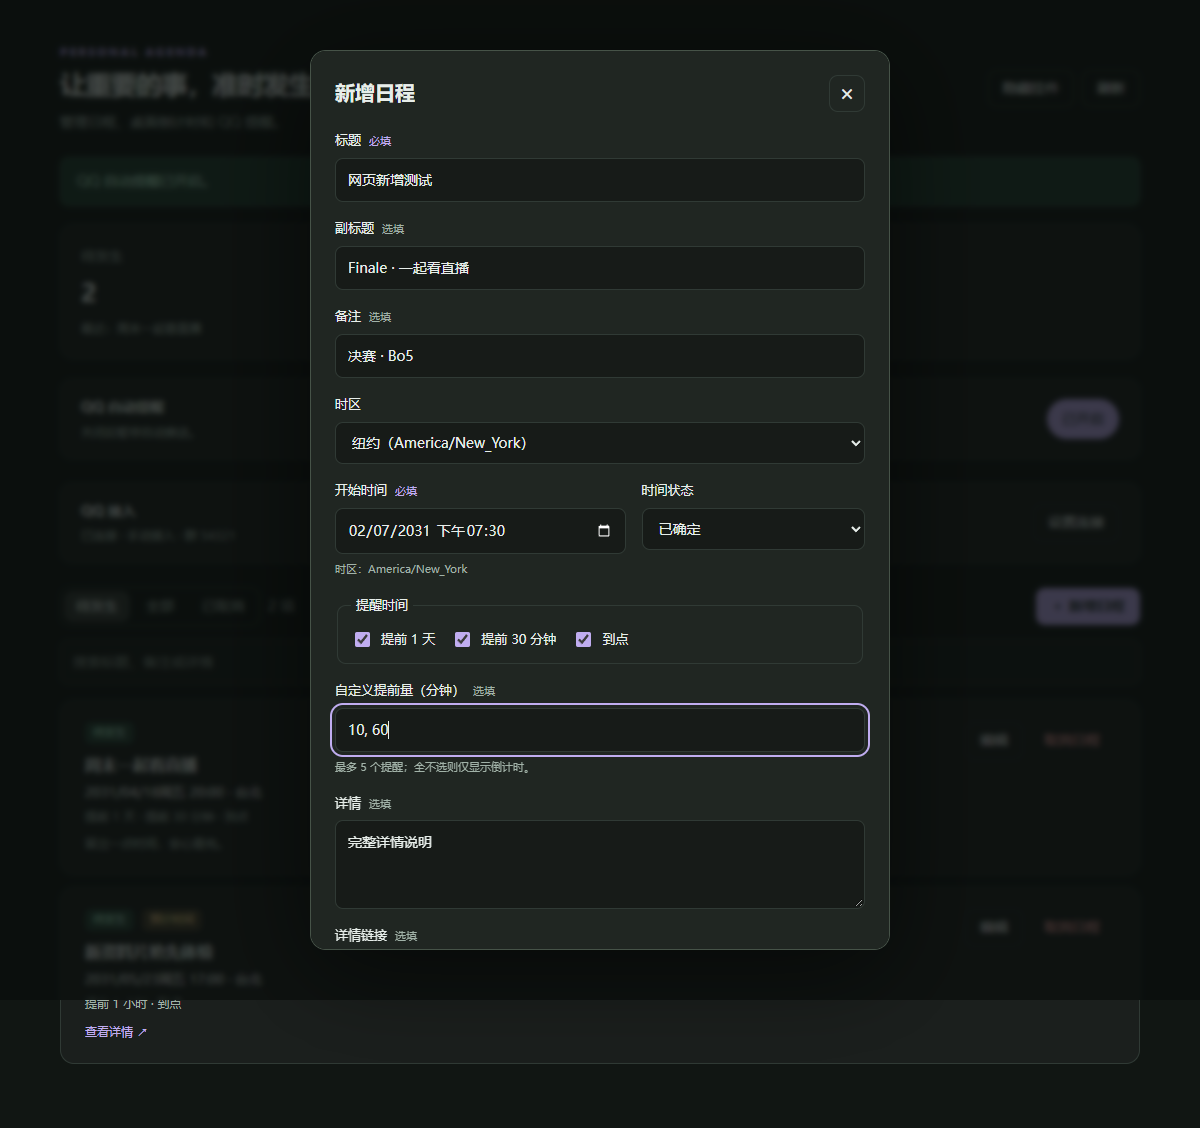
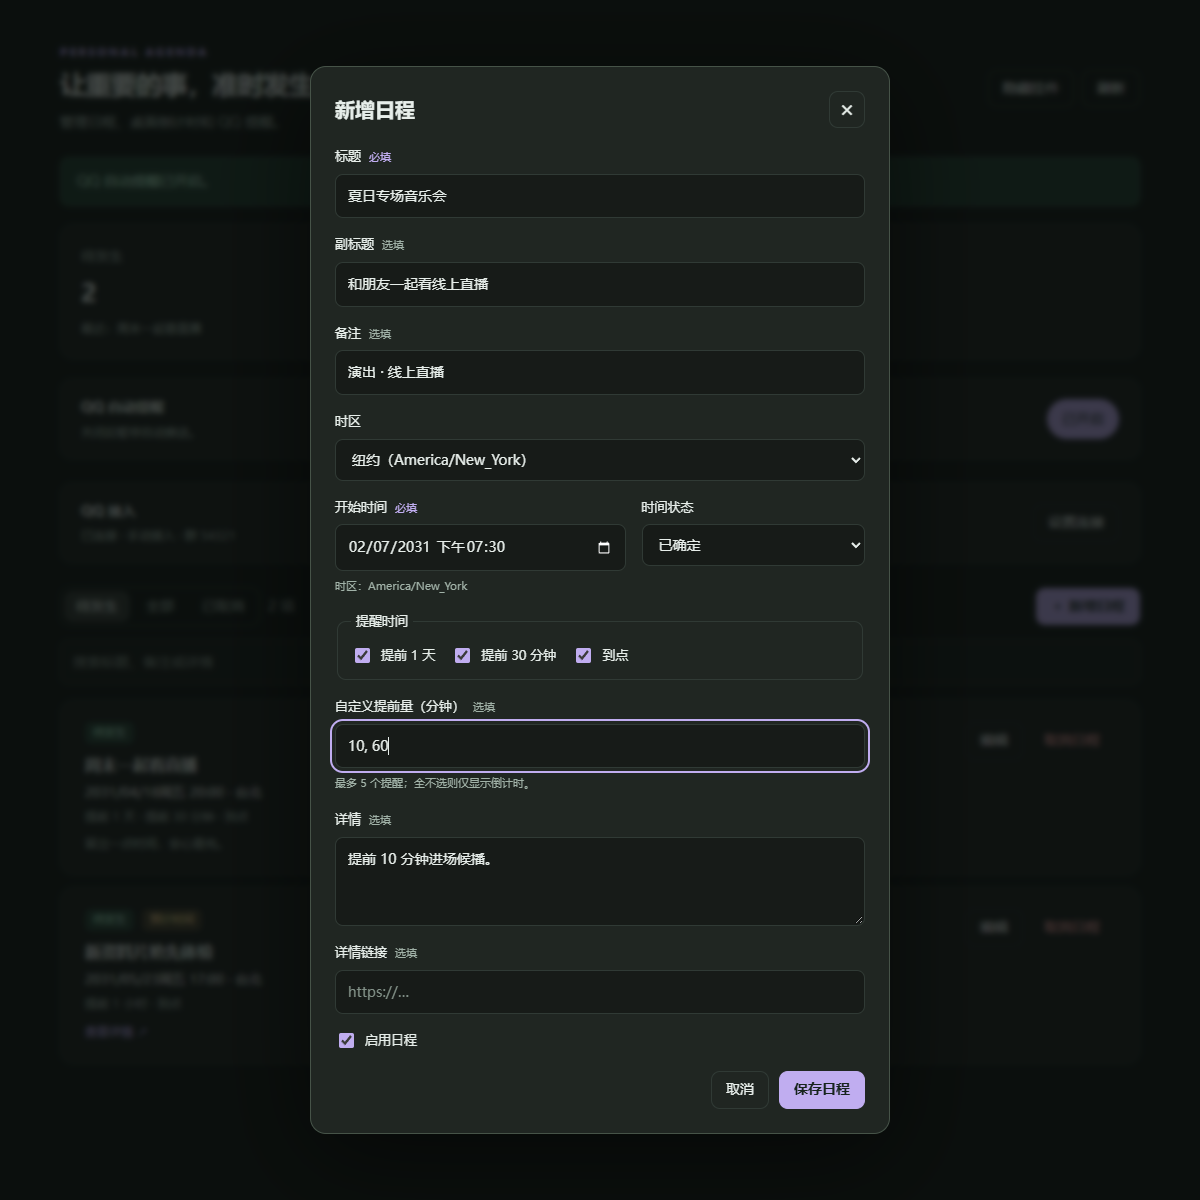
docs: polish README and screenshots

diff --git a/README.md b/README.md
@@ -1,141 +1,148 @@
-# Coopanion 个人日程
+# Coopanion 个人日程（`cortico-world-personal-agenda`）
 
-独立的本地 World 插件：**个人日程**，包含 QQ 提醒与桌面倒计时。不修改 Coopanion 主程序，不向本体托盘插入菜单，也不创建额外托盘图标。所有开关放在插件页面。
+Coopanion 的个人日程与桌面倒计时扩展（World 契约 6），支持**WebUI 日程管理**、**独立桌面倒计时挂件**以及**复用官方 QQ 插件的定时提醒与群/私聊命令**。不修改 Coopanion 主程序，所有设置与开关均在插件页面内完成。
 
-目前按 Windows + Coopanion 0.2.20 / World 契约 6 验证。桌面窗口需要本机 Coopanion 的 Electron 运行环境；安装脚本在数据目录中准备独立副本，仓库不包含运行二进制。
+- **npm 包名**：[`cortico-world-personal-agenda`](https://www.npmjs.com/package/cortico-world-personal-agenda)
+- **适用环境**：Windows + Coopanion 0.2.20+（World API 6）
+- **开源协议**：MIT
 
-![日程页面](docs/images/agenda-desktop.png)
+---
 
-## 个人日程
+## 界面预览
 
-- 页面新增、编辑、取消、重新启用日程；查看待发生、全部和已取消事项，按标题或备注搜索。
-- 每条日程在新增、编辑窗口中独立选择时区，默认跟随电脑；可标记已确定或预计时间，分别编辑标题、副标题、备注、详情和 HTTPS 链接，文字不限语言。
-- 设置到点、提前一天、提前 30 分钟，或自定义整数分钟；每项最多 5 次，也可不发提醒。
-- 手动指定的私聊 QQ 支持日程命令；已配置 Coopanion 语言模型时还可直接用自然语言管理。可另填一个群号接收同一份日程的提醒。
-- 群内添加日程提供总开关，以及「允许主人」「允许群管理员」「允许群主」三个独立权限，默认全部关闭；私聊 QQ、群号、主人 QQ 默认全部留空，均需自行填写。
-- 页面提供独立的「QQ 自动提醒」开关，设置会保存；关闭自动推送仍可编辑日程、查看桌面倒计时和通过 QQ 私聊管理。
-- 页面提供 QQ 首次接入、连接检测和高级选项；默认复用官方 QQ 的地址及令牌，用户填写提醒接收人即可。未配置 QQ 时，日程和倒计时仍可独立使用。
-- 倒计时与 QQ 提醒读取同一份日程。改期、取消、提醒去重和失败重试保留；更改标题不会重新发送已确认的提醒。
-- 编辑冲突会提示重新打开，不覆盖其他页面或 QQ 的新改动。取消是停用，不删除历史。
+| 桌面倒计时挂件 | 日程管理面板 |
+| :---: | :---: |
+| ![桌面倒计时挂件](docs/images/countdown-widget.png) | ![日程管理面板](docs/images/agenda-desktop.png) |
 
-![编辑日程](docs/images/agenda-editor.png)
+| 新增 / 编辑日程 | QQ 提醒接入设置 |
+| :---: | :---: |
+| ![编辑日程](docs/images/agenda-editor.png) | ![QQ 接入设置](docs/images/qq-connection.png) |
 
-日程显示字段对应关系：
+---
 
-| 页面字段 | 数据字段 | 填写要求 | 用途 |
-| --- | --- | --- | --- |
-| 标题 | `title` | 必填 | 倒计时的大字标题 |
-| 副标题 | `subtitle` | 选填 | 标题下方的小字，留空隐藏 |
-| 备注 | `remark` | 选填 | 挂件顶部的短标签，例如「演出 · 线上直播」 |
-| 详情 | `details` | 选填 | 完整说明、长文本，QQ 提醒会附上 |
-| 开始时间 | `start` | 必填 | 日程开始时间，按页面选择的时区输入 |
-| 时区 | `timezone` | 默认跟随电脑 | 仅影响这条日程，可选择其他地区 |
-| 详情链接 | `url` | 选填 | 填写时须使用 HTTPS 地址 |
+## 核心功能
 
-标题、副标题、备注和详情均不限制语言。旧的「标题｜标签」仍可读取，旧 `notes` 作为详情读取；通过页面保存后写入独立字段。不再按日程编号强制套用显示内容。清空备注会隐藏顶部标签，清空副标题会隐藏对应小字。
+- **日程管理**：支持新增、编辑、取消与重新启用，按「待发生 / 全部 / 已取消」筛选，支持按标题、备注或详情搜索；多人多端同时修改时自动做版本冲突保护。
+- **桌面倒计时挂件**：独立的置顶/折叠桌面小窗，实时显示天与时分秒；临近自动高亮，支持手动固定指定事项，保存日程后即时刷新；识别详情中的 YouTube / Bilibili / Twitch 直播链接，底部提供快捷跳转。
+- **按日程独立时区**：每条日程单独保存时区（默认跟随电脑，也可选择如 `Asia/Tokyo`、`America/New_York`、`Europe/London` 等 IANA 时区），自动处理夏令时缺口与重复时段。
+- **QQ 自动提醒与命令**：默认复用官方 QQ 插件（`cortico-world-qq`）的连接，无需再手动配置一套 OneBot；支持分别配置私聊接收与群聊提醒、随时开启/关闭「QQ 自动提醒」，并保留逐目标的去重回执与失败重试。
+- **自然语言日程管理**：自动复用 Coopanion 当前启用的语言模型（`activeProvider`，兼容 `coo` 与 `openai-responses-compat` 模型配置），可在授权私聊中使用自然语言查询、添加、改期或取消日程。
 
-时间状态默认「已确定」，启用状态默认开启。新日程默认提前一天、提前 30 分钟和到点提醒；自定义提前量选填，与勾选项合计最多 5 个，每个为 0–43200 的整数分钟。取消全部勾选并清空自定义提前量后只显示倒计时，不自动提醒。
+---
 
-每条日程的「时区」位于新增、编辑窗口中，列表、QQ 提醒与桌面倒计时分别按各项自身时区显示。新日程默认跟随运行 Coopanion 的电脑，也可选择 IANA 地区时区，例如 `Asia/Tokyo`、`Europe/London` 或 `America/New_York`。编辑已有日程时，若时间尚未修改，切换时区会自动换算输入框并保留实际时刻；如果已经输入了新时间，则按新选择的时区解释输入。其他日程及提醒回执不受影响。
+## 安装方式
 
-会按事件日期处理夏令时。不存在的当地时刻不能保存，夏令时结束造成的重复时段需明确选择第一次或第二次；命令遇到重复时段时可改用网页选择。QQ 新增命令默认跟随电脑，修改命令沿用该项时区，可在时间后写 `@Asia/Tokyo` 等地区时区；自然语言可直接说明地区，例如「纽约明晚八点提醒我」。
+### 方式一：通过 Coopanion 扩展市场安装（推荐）
 
-时区保存在每个事件的 `timezone` 字段中，值为 `local` 或地区时区。旧记录未包含该字段时继续沿用旧文件顶层的时区，没有旧设置才跟随电脑；编辑保存时会把旧设置写入该条日程。旧文件无需重置，新建日程不受旧文件全局设置影响。
+1. 在 Coopanion 打开 **扩展管理**，搜索 **`cortico-world-personal-agenda`**（或「个人日程」）并安装。
+2. 按提示重启核心，在 **World** 中启用 **个人日程**。
+3. 直接点击插件页面上的「显示挂件」即可使用（扩展首次启动会自动从本机 Coopanion 准备独立的桌面窗口运行环境，无需额外手动脚本）。
 
-插件通过仅本机监听的 OneBot v11 转接通道接入官方 QQ：OneBot 常用端口为 `3001`，日程转接端口默认 `3002`。只处理指定接收人的日程私聊，以及指定群中符合权限的明确添加命令，其他消息和 QQ API 请求原样转发。停用时尝试通过官方 QQ 控制面恢复原上游地址；控制面关闭或不兼容时，需要在 QQ 接入页手动改回原地址。该机制依赖官方 QQ 控制面，未来接口变化仍可能需要适配。
+### 方式二：从 GitHub 源码本地构建安装
 
-当前已验证官方 `cortico-world-qq@0.2.15` 的实际连接驱动：身份初始化、普通私聊和群消息转发，以及上游连接断开后的重新连接。测试使用本机模拟 OneBot 服务，不向真实 QQ 发送测试消息。以上兼容性结论对应 Coopanion 0.2.20 / World 契约 6，不代表网络或 QQ 账号异常时永不断线。
-
-## 安装
-
-需要 Node.js 22+（建议 24）、Windows 和已安装的 Coopanion。网页日程和倒计时可先独立使用；QQ 提醒需要已登录的 OneBot v11（如 NapCat），推荐使用已配置好的官方 QQ 插件。先下载本仓库，在目录中运行：
+环境要求：Windows、Node.js 22+（推荐 24）、已安装 Coopanion。
 
 ```powershell
+git clone https://github.com/Nakamach1Arale/cortico-world-personal-agenda.git
+cd cortico-world-personal-agenda
 npm run build
 npm run install:coopanion
 ```
 
-默认安装目录为 `%LOCALAPPDATA%/Programs/Coopanion`。可显式指定目录和本机 API：
+若 Coopanion 安装在自定义目录，或本机 API 端口非默认值，可显式指定：
 
 ```powershell
 node scripts/install.mjs --app="D:/Apps/Coopanion" --api=http://127.0.0.1:17788
 ```
 
-脚本复制独立窗口运行环境，随后通过 Coopanion 的扩展安装接口登记日程本地包。它不修改主程序，也不覆盖用户日程、密钥或提醒记录。如果管理端需要认证，可先用脚本准备文件，再在已登录的扩展管理页选择 `data/local-extensions/` 下的对应目录安装。
+> 本地安装脚本仅在 `data/` 下准备扩展目录和独立窗口环境，不会修改主程序，也不会覆盖已有日程、密钥或提醒回执。
 
-### 首次使用与 QQ 接入
+---
 
-1. 安装后按扩展管理器提示重启核心，在 World 中启用「个人日程」。此时即可新增、编辑日程和使用倒计时，不必先配置 QQ。
-2. 需要 QQ 提醒时，打开「个人日程 → QQ 接入 → 设置连接」。
-3. 按需要填写「私聊接收 QQ」和／或「接收群号」，保持默认「复用官方 QQ」。两个目标都默认留空，不读取或推荐官方 QQ 的聊天对象，主人也不会自动加入。地址和令牌从本部署官方 QQ 配置中读取，令牌不回显。
-4. 点击「检测连接」验证登录身份，再点击「保存并连接」。检测不发送任何 QQ 消息；它验证连通和登录，不等于已验证最终消息送达，实际提醒以发送回执为准。
-5. 没有官方 QQ 配置时可选择「手动连接 OneBot」，填写 `ws://` 或 `wss://` 地址与访问令牌；服务本身未设置令牌时勾选对应选项。留空密码框会保留已保存的令牌。
+## 使用说明
 
-![QQ 接入设置](docs/images/qq-connection.png)
+### 1. 日程字段说明
 
-不再需要 QQ 接入时，将私聊 QQ 和群号均留空并关闭群内添加后保存，日程和倒计时继续使用；只想关闭自动推送则使用页面的「QQ 自动提醒」开关。保存连接不必重启整个日程插件，也不会重置已有事项或回执。
+| 页面字段 | 数据字段 | 填写要求 | 用途 |
+| --- | --- | --- | --- |
+| 标题 | `title` | 必填 | 倒计时大字标题与提醒主名称 |
+| 副标题 | `subtitle` | 选填 | 显示在标题下方，留空隐藏 |
+| 备注 | `remark` | 选填 | 挂件顶部短标签，例如 `演出 · 线上直播` |
+| 时区 | `timezone` | 默认跟随电脑 | 仅作用于该日程，编辑切换时区可保留同一实际时刻 |
+| 开始时间 | `start` | 必填 | 按当前选定时区解析的本地时间 |
+| 时间状态 | `status` | 默认已确定 | 支持「已确定」或「预计时间」 |
+| 提醒时间 | `reminders_minutes` | 默认 1天 / 30分 / 到点 | 可勾选预设或填自定义整数分钟（最多 5 个，全空仅显示倒计时） |
+| 详情 | `details` | 选填 | 完整备注文本，QQ 提醒会一并附上；含直播链接时挂件显示「观看直播」 |
+| 详情链接 | `url` | 选填 | 仅接受 `https://` 链接 |
 
-### 群聊提醒与添加权限
+### 2. QQ 提醒与官方 QQ 插件适配
 
-私聊与群聊共享一份日程；配置两者后，每条有效提醒会分别发送，成功回执和失败重试按接收目标记录。只填群号也可使用，不需要填写私聊 QQ 或主人 QQ。首次接入不会发送欢迎或接入通知。
+未接入 QQ 时，网页日程管理与桌面倒计时仍可正常独立使用。需要 QQ 提醒时：
 
-需要在群里添加时，打开「允许在群里用命令添加日程」，再勾选至少一种身份：
+1. 打开插件页面的 **QQ 接入 → 设置连接**。
+2. 按需填写 **私聊接收 QQ** 和/或 **接收群号**（所有接收目标与开关默认留空，不会自动从官方 QQ 聊天列表导入）。
+3. 保持默认的 **复用官方 QQ（推荐）**，点 **检测连接** 验证登录状态，再点 **保存并连接**。
+   - 若不使用官方 QQ，也可切换 **手动连接 OneBot** 填写 `ws://` / `wss://` 地址与访问令牌（令牌通过宿主密钥接口写入部署 `.env`，页面不回显明文）。
+4. 随时可通过页面上的 **QQ 自动提醒** 开关暂停或恢复定时推送，不影响普通 QQ 聊天与倒计时显示。
 
-| 权限 | 允许的发送人 |
+### 3. 群聊添加权限
+
+私聊与群聊共享同一份日程列表，分别记录各自提醒回执。如需允许在指定接收群里添加日程，可在 **QQ 接入** 弹窗中开启 **允许在群里用 `/日程` 添加日程** 并勾选授权身份（默认全部关闭）：
+
+| 权限开关 | 允许触发群命令的成员 |
 | --- | --- |
-| 允许主人 | 手动填写的「主人 QQ」，仅用于权限判断，不会因此收到私聊提醒 |
-| 允许群管理员 | OneBot 上报身份为 `admin` 的成员 |
-| 允许群主 | OneBot 上报身份为 `owner` 的成员 |
+| 主人 | 手动填写的「主人 QQ」（仅用于权限校验，不会自动接收私聊提醒） |
+| 群管理员 | OneBot 上报身份为 `admin` 的成员 |
+| 群主 | OneBot 上报身份为 `owner` 的成员 |
 
-三种身份分别生效，可同时勾选；群主不会因为只勾选管理员而自动获得权限。总开关和身份开关默认全部关闭。仅在填写的接收群里处理 `/日程 添加 2030-11-10 20:00 事项标题`，可在时间后加 `@Asia/Tokyo` 等时区；其他群、普通聊天、未授权成员均不触发本模块。回复只含新建事项并留在该群，不附上其他日程清单。群内不开放清单查询、修改、取消或自然语言管理。
+命令示例（支持在时间后附加 `@IANA时区`）：
 
-从旧版升级时，旧 `ownerQQ` 不会自动迁入新的接收人或主人字段。需在页面自行填写后才恢复 QQ 日程提醒；现有日程、倒计时和投递记录保留，旧接收人重新填入后仍沿用已有成功回执。
+```text
+/日程 添加 2030-11-10 20:00 周末音乐会
+/日程 添加 2030-11-10 20:00 @Asia/Tokyo 线上发布会
+```
 
-高级选项可调整日程转接端口（默认 `3002`）和 Coopanion 本机接口端口（默认 `17788`）。转接端口不可与 OneBot 相同；端口占用、地址错误、令牌不匹配及登录异常会显示具体原因。官方连接未设置令牌时可直接复用。
+> 群内仅响应已勾选身份成员在指定接收群发送的 `/日程 添加` 指令，回复只包含刚添加的事项并留在该群；群内不开放查询清单、修改、取消或自然语言管理。
 
-手动填写的令牌使用宿主密钥接口保存到部署 `.env`，配置只保存密钥引用，页面不会返回或回填明文。复用官方 QQ 时不复制其令牌到新配置。旧 `PERSONAL_AGENDA_ONEBOT_TOKEN` 继续兼容，不要求新用户编辑 `.env`；示例文件仅供维护参考。切换连接方式不会修改官方 QQ 的令牌。
+### 4. 模型复用说明
 
-QQ 日程命令需官方 QQ 连入日程的本机转接通道；页面会显示该状态。手动模式只在官方 QQ 使用同一上游或原日程转接地址时切换，其他 QQ 地址不会被强改。若官方 QQ 不可用，网页编辑、倒计时和已连通的独立自动提醒仍可使用；停用日程后请检查官方 QQ 是否已恢复原地址。
+- **自然语言理解与提醒开场白**自动读取 Coopanion 部署配置中的 `activeProvider`（如 DeepSeek、Gemini 等兼容接口），若未配置或不可用，确定格式的 `/日程` 命令、网页编辑与倒计时仍照常工作，提醒正文退回精确日程事实。
 
-自然语言理解自动复用 Coopanion 当前启用的语言模型端点（`activeProvider`，或任意已配置的 `coo` / `openai-responses-compat` 端点）。没有配置语言模型时，网页编辑、确定格式的 `/日程` 命令仍可用；自然语言理解会提示不可用，提醒表达退回准确事实。
+---
 
-## 数据和更新
+## 数据存储与隐私
 
-数据位于部署的 `data/` 目录：
+所有运行数据均保存在当前 Coopanion 部署的 `data/` 目录下：
 
 | 文件 | 用途 |
 | --- | --- |
-| `personal-agenda.json` | 日程内容 |
-| `personal-agenda-delivery.json` | 提醒回执和去重状态 |
-| `personal-agenda-dialogue.json` | 近期日程对话 |
-| `countdown-window.json` | 窗口位置及显示设置 |
+| `personal-agenda.json` | 日程条目与独立时区设置 |
+| `personal-agenda-delivery.json` | 私聊与群聊的分目标提醒回执与重试记录 |
+| `personal-agenda-dialogue.json` | 私聊日程上下文记录 |
+| `countdown-window.json` | 挂件位置、置顶、折叠与固定显示偏好 |
 
-新安装从空日程开始，不含作者的真实日程。不要删除投递记录来测试，否则可能重复提醒。更改代码后增加插件版本号、重新构建安装，再重启核心加载；同名本地目录更新不会初始化新数据。主程序更新不会覆盖本插件目录，但宿主契约、QQ 控制面、Windows 设备接口变化仍可能需要适配。
+- 新安装默认日程为空，默认无任何 QQ 接收人。
+- 本发布仓库仅包含源码、测试、前端构建产物、自绘图标与示例截图，不包含任何个人日程、聊天记录或密钥。
+- 安全与权限设计说明见 [SECURITY.md](SECURITY.md)，完整变更记录见 [CHANGELOG.md](CHANGELOG.md)。
 
-倒计时窗口由日程插件管理，通过本机会话管道接收显示/隐藏操作；父进程结束后自动退出。隐藏挂件不等于停用日程提醒；暂停 Coopanion 会暂停提醒，读取暂停状态失败时也暂停发送。
-
-「QQ 自动提醒」保存在 `worlds.personal-agenda.qqRemindersEnabled`，默认开启。关闭不会断开普通 QQ、取消日程或清空投递记录；再次开启时恢复仍在有效期内的提醒，过期的不补发。已交给 QQ 发送的消息无法通过关闭开关撤回。
-
-QQ 与本地文件无法组成跨系统事务：在消息已发送、回执未落盘的极短窗口内崩溃，仍可能在重试时重复。这是已知限制，不能保证绝对 exactly-once。
+---
 
 ## 开发与验证
 
-```sh
-npm test
-npm run build
+```powershell
+npm test        # 运行全部 81 项单元与集成测试（无网络依赖、不触发真实 QQ 发送）
+npm run build   # 重新打包前端产物、图标与 describe.json
 ```
 
-单元测试无网络依赖，不读取真实用户数据或发送 QQ 消息。浏览器界面测试需要安装开发依赖及 Chrome：
+浏览器界面与挂件截图校验（需本机 Chrome/Chromium 与 `puppeteer-core`）：
 
-```sh
+```powershell
 npm install
 npm run test:ui
 ```
 
-可用 `CHROME_PATH` 指定 Chrome/Chromium。界面测试使用隔离资料目录和模拟 RPC，验证空白接收目标、群内身份权限、仅群聊接入、只读检测、令牌不回显、时区切换、夏令时重复时段选择、新增、自定义提醒、冲突、取消、移动布局和卸载清理；截图写入忽略的 `preview/`。README 截图使用虚构示例。
+---
 
-## 发布范围与许可
+## 许可
 
-仓库只包含源码、测试、文档、构建后的插件前端和自绘图标；不含 QQ 号配置、密钥、真实日程、聊天记录、睡眠记录、安装目录备份或 Electron 二进制。发布包名 `cortico-world-personal-agenda`，可通过 npm / Coopanion 扩展市场或本地扩展目录安装。
-
-本项目代码使用 MIT 许可。vendored `ws` 保留自己的 MIT 版权和许可，见 [THIRD_PARTY_NOTICES.md](THIRD_PARTY_NOTICES.md)。
+本项目代码使用 [MIT](LICENSE) 许可开源。vendored `ws` 保留各自原 MIT 版权声明，见 [THIRD_PARTY_NOTICES.md](THIRD_PARTY_NOTICES.md)。

diff --git a/cortico-world-personal-agenda-local/README.md b/cortico-world-personal-agenda-local/README.md
@@ -1,5 +1,24 @@
-# 个人日程
+# 个人日程（`cortico-world-personal-agenda`）
 
-独立的本地 Coopanion World 扩展。数据、设置和桌面组件沿用原目录。通过插件页面显示/隐藏挂件，更新主程序不会覆盖本插件源码。
+Coopanion 个人日程、桌面倒计时挂件与 QQ 自动提醒扩展（World API 6），支持按日程独立设置时区，并可复用官方 QQ 插件（`cortico-world-qq`）连接。
 
-需要宿主 World 契约 6，以及数据目录中独立保存的 desktop-widgets Electron 运行环境；将来若宿主修改扩展契约或 QQ 控制面，仍可能需要适配。
+- **GitHub 源码与完整文档**：[Nakamach1Arale/cortico-world-personal-agenda](https://github.com/Nakamach1Arale/cortico-world-personal-agenda#readme)
+- **问题反馈**：[GitHub Issues](https://github.com/Nakamach1Arale/cortico-world-personal-agenda/issues)
+
+![桌面倒计时挂件](https://raw.githubusercontent.com/Nakamach1Arale/cortico-world-personal-agenda/main/docs/images/countdown-widget.png)
+
+## 主要特性
+
+- **WebUI 日程面板**：支持新增、编辑、取消、重新启用、状态筛选、关键词搜索与并发编辑冲突保护。
+- **独立桌面倒计时挂件**：置顶/折叠控制、临近提醒高亮、手动固定事项、直接识别详情中的直播链接，编辑或 QQ 变更后即时刷新；首次启动自动初始化桌面窗口运行环境。
+- **独立时区与夏令时**：每条日程单独保存 IANA 时区（默认跟随电脑），自动处理夏令时缺失与重复时段。
+- **QQ 提醒与官方插件复用**：默认复用官方 QQ 插件的连接，也支持手动连接 OneBot v11；支持私聊、群聊分别设置与按目标去重回执，并可按权限开放群内 `/日程 添加` 命令。
+- **复用 Coopanion 语言模型**：自然语言日程管理与提醒文案自动沿用 Coopanion 当前启用的 `activeProvider`。
+
+![日程管理面板](https://raw.githubusercontent.com/Nakamach1Arale/cortico-world-personal-agenda/main/docs/images/agenda-desktop.png)
+
+## 快速使用
+
+1. 在 Coopanion 扩展市场安装本扩展并重启核心，在 **World** 中启用 **个人日程**。
+2. 无需 QQ 即可直接在面板中添加日程与开启桌面倒计时挂件。
+3. 需要 QQ 提醒时，在面板打开 **QQ 接入 → 设置连接**，填写接收 QQ 号或群号，保持默认的「复用官方 QQ」并点击 **检测连接** 后保存即可。
